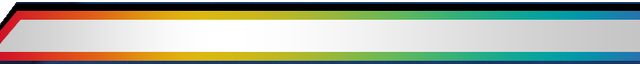
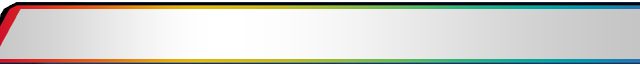
aergb 4:3: a taller silver inside in the hint band (a thinner frame), so both hint lines stand inside it

diff --git a/tools/make_4x3_backgrounds.py b/tools/make_4x3_backgrounds.py
@@ -120,6 +120,11 @@ BAND_SRC = {                            # the band's parallelogram in the 16:9 a
     "aergb": ((455, 617), (1280, 617), (1280, 694), (394, 694)),
     "default": ((412, 612), (1280, 612), (1280, 708), (352, 708)),
 }
+# aergb's strip is mostly frame (black 8, rainbow 12, silver 40, rainbow 10 + shadow of 77 rows): scaled as a whole its
+# silver inside is too low for the two hint lines (the owner, 2026-10-06: "wyzszy pasek") - rows (16:9 art) -> px
+BAND_ROWS = {
+    "aergb": (((617, 627), 3), ((627, 639), 4), ((639, 679), 50), ((679, 694), 5)),
+}
 EVO_SLOT_X = 522                        # evolution's footer: the silver bar right of its POWER / logo / OPEN block
 
 
@@ -138,7 +143,15 @@ def footer(name):
     band = art.crop((x0, y0, x1, y1))
     band.putalpha(mask.crop((x0, y0, x1, y1)))
     bw, bh = BAND[2] - BAND[0], BAND[3] - BAND[1]
-    b = band.resize((bw, bh), Image.LANCZOS)
+    if name in BAND_ROWS:                               # rebuilt row band by row band: a thinner frame, a taller inside
+        b = Image.new("RGBA", (bw, bh), (0, 0, 0, 0))
+        y = 0
+        for (r0, r1), h in BAND_ROWS[name]:
+            b.alpha_composite(band.crop((0, r0 - y0, band.width, r1 - y0)).resize((bw, h), Image.LANCZOS), (0, y))
+            y += h
+        assert y == bh
+    else:
+        b = band.resize((bw, bh), Image.LANCZOS)
     out.paste(b, (BAND[0], BAND[1]), b)                 # paste: its left end may start off the picture
     return out
 
